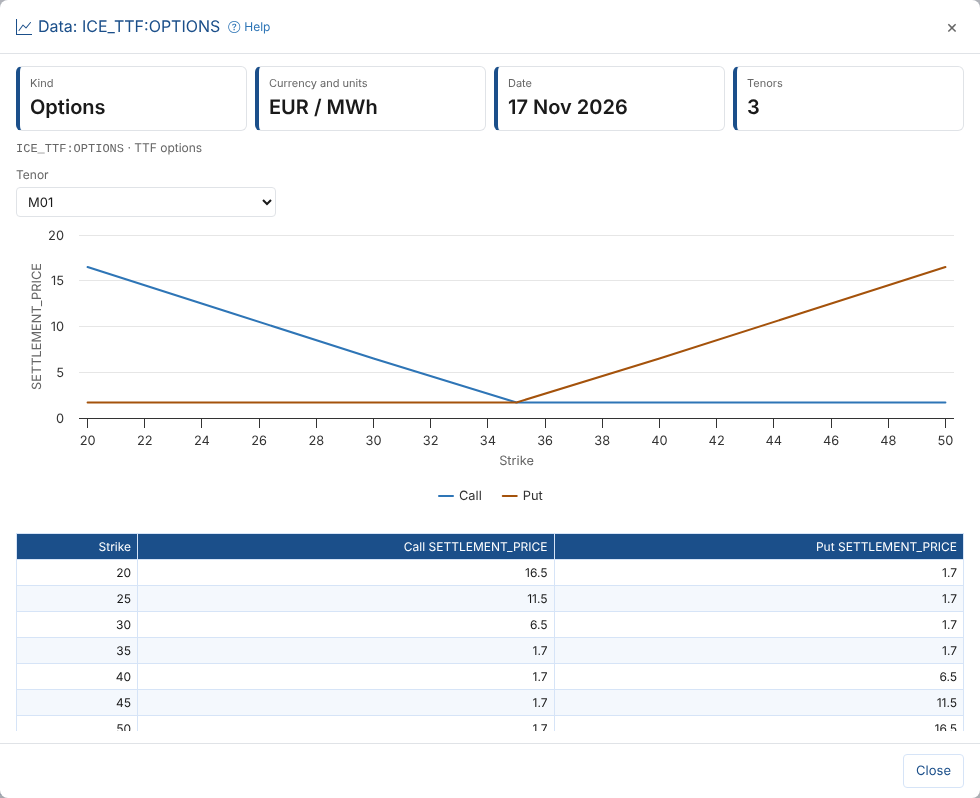
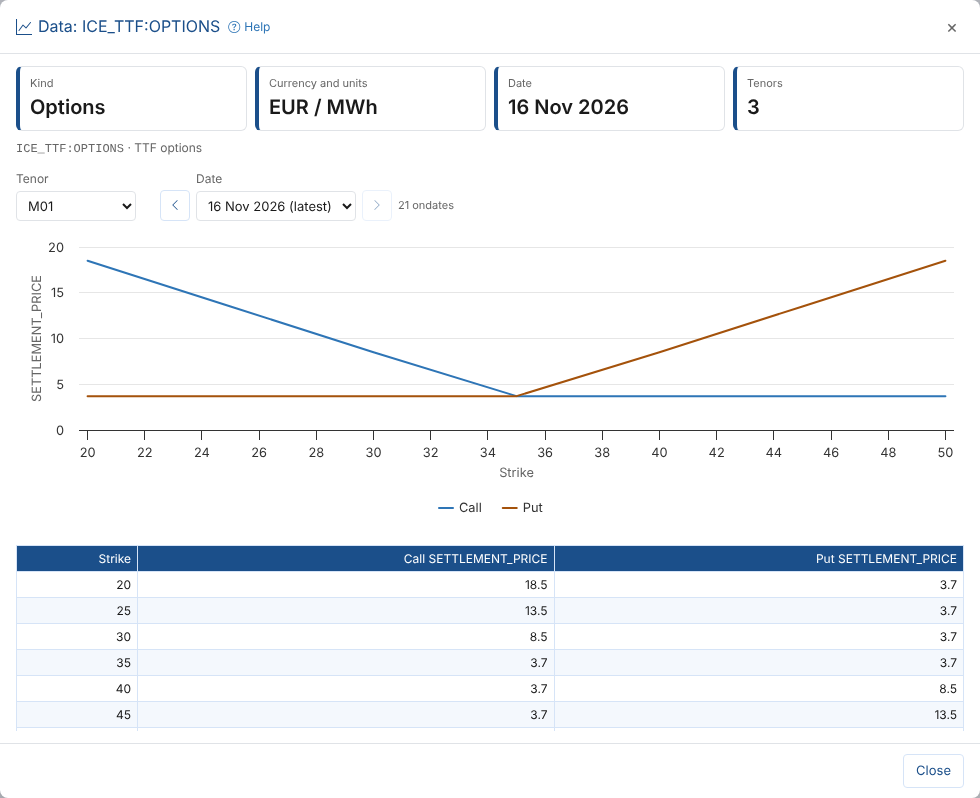
Documentation support for smart data, data explorer and projects

diff --git a/docs/extensions/project-tracker/10-reference.md b/docs/extensions/project-tracker/10-reference.md
@@ -76,7 +76,7 @@ An activity log entry has `id`, `at` (date and time), `by` (email, empty for the
 | `items` | `[{id, type, ref, label, days, points, added, addedBy, planned, plannedBy, note}]`. An item with an empty `ref` is prepared: its `type` and `label` (and `note`, `planned`, `plannedBy`) are set and the evidence is still to provide; providing it sets `ref`, `added` and `addedBy`. `type` is `feed` (`ref` a dataset feed `PROVIDER.FEED`, `days` 1 to 31), `data` (`ref` a curve, timeseries or options id, `points` 10 to 1000), `integration` (`ref` an integration system id such as `INTEGRATION.MOLECULE`, `days` 1 to 31) or `doc` (`ref` a project document name) |
 | `signOff` | null, or `{status, by, at, comment, items}`: `status` is `signed` or `rejected`, and `items` lists what was signed off as `type\|ref\|days` (or `\|points`) |
 
-The evidence is read with the normal services: `dataset/v1/info` and `dataset/v1/delivery` for a feed; `data/v1/{source}/ID?_raw=true`, then `?_range=last(n)` for a timeseries or `ID:-ONDATE?_ondate=today` for a curve or options; the integration system's object, the `group/v1` groups with `integration.systemId`, and the stored `report/v1/private/INTEGRATION_...` reports of each day. Charts use the platform's Highcharts partial `#odsl-highcharts`.
+The evidence is read with the normal services: `dataset/v1/info` and `dataset/v1/delivery` for a feed; `data/v1/{source}/ID?_raw=true`, then `?_range=last(n)` for a timeseries, or for a curve or options its ondates with `?_range=last(90)` and the curve with `ID:ONDATE` (the ondate chosen) or `ID:-ONDATE?_ondate=today` (the latest); the integration system's object, the `group/v1` groups with `integration.systemId`, and the stored `report/v1/private/INTEGRATION_...` reports of each day. For data with an id `RECORD:ITEM` the item's own documentation is read too: `documentation/v1/private/object:RECORD:ITEM`, as Smart Data's Documentation tab writes it. Charts use the platform's Highcharts partial `#odsl-highcharts`.
 
 A task is at **Evidence provided** only when it has evidence and none of it is still to provide; until then it is at **No evidence** (the screen shows how much is provided). The task screen only offers **Sign off** and **Reject** to the person in `signOffBy`, and **Sign off** only when nothing is still to provide. For a project of another tenant, the `projectshare` service also enforces it: a sign-off can only be added or changed by the person in `signOffBy` (not changed in the same save) under their own name, a sign-off is refused while any item is still to provide, and a sign-off is cleared when the evidence items, the person or `required` change. `evidence` refuses an item that is still to provide.
 
@@ -116,7 +116,7 @@ An added project is a record in your own `project` collection with `kind: link`,
 | `delete` | POST | `tenant`, `environment`, `coll` (`task` or `doc`); `{_id, project}` as the body | Deletes a task or document. Projects cannot be deleted |
 | `subscribe`, `unsubscribe` | POST | `tenant`, `environment` (left out for your own project); `{_id: SignalR connection id, project}` as the body | Joins or leaves the project's realtime group. Answers `{group, live}` |
 | `notify` | POST | `tenant`, `environment` (left out for your own project); `{_id: project code, kind, id, action, connection}` as the body | Tells the people with the project open what was just saved: `kind` is `project`, `task` or `doc`, `action` is `save` or `delete` |
-| `evidence` | GET | `tenant`, `environment`, `project`, `task`, `item` | Reads one evidence item of the task in the client's tenant: `{type, ref, ...}` with the datasets and deliveries, the data, the integration reports or the document. Only items attached to the task can be read |
+| `evidence` | GET | `tenant`, `environment`, `project`, `task`, `item`, `ondate` (optional, `yyyy-MM-dd`, for a curve or options) | Reads one evidence item of the task in the client's tenant: `{type, ref, ...}` with the datasets and deliveries, the data (for a curve or options also `ondates`, the latest 90 newest first, and the `ondate` asked for; for an id `RECORD:ITEM` also `doc`, the item's documentation), the integration reports or the document. Only items attached to the task can be read |
 | `evidenceOptions` | GET | `tenant`, `environment`, `project`, `kind` (`feeds`, `systems` or `data`), `q` | What can be attached as evidence in the client's tenant: its dataset feeds, its integration systems, or up to 25 curves, timeseries and options whose id contains `q` |
 
 For example `GET projectshare/v1?_function=list&tenant=<tid>&environment=production&coll=task&project=NORTHGATE`.
@@ -132,7 +132,7 @@ A Home page task or a link can open the Projects screen with these properties:
 | Property | Values |
 |-|-|
 | `PROJECT` | A project code |
-| `TAB` | `overview`, `tasks`, `gantt`, `docs`, `people` or `settings` |
+| `TAB` | `overview`, `tasks`, `gantt`, `docs`, `evidence`, `people`, `insights` or `settings` |
 | `TASK` | A task id: opens its project and the task panel |
 | `SHOW` | `mine`, `late`, `soon` or `blocked`: the Tasks tab with that filter |
 | `ACTION` | `newproject`, or `newtask` (with `PROJECT`) |
@@ -147,7 +147,7 @@ A Home page task or a link can open the Projects screen with these properties:
 | Menu item | **Manage > Projects** (view script `odsl.project_tracker.manage`) |
 | Feature policy | `extension.odsl.project_tracker` |
 | Security policies | `Projects` (object/project), `ProjectTasks` (object/project_task), `ProjectDocuments` (documentation, private) |
-| Insight | `odsl.project_tracker.status`, Project Status |
+| Insight | `odsl.project_tracker.status`, Project Status, category `odsl.project_tracker`. The screen's **Insights** tab lists every insight report of that category (`reportconfig/v1/all`) and runs the chosen one as a page (`report/v1/{source}/{id}`, Accept `text/html`) with the properties `ID` and `PROJECT` (the chosen project's code, or the link id of a project of another tenant). The view sets `insights = false`, so the portal does not add its own Insights tab |
 | Home page tasks | `odsl.project_tracker.late`, `odsl.project_tracker.mine`, `odsl.project_tracker.new` |
 | Scripts | `odsl.project_tracker.common`, `.gantt`, `.manage`, `.insight.status`, `.reminders`, `.email` |
 

diff --git a/docs/extensions/data-explorer/08-reference.md b/docs/extensions/data-explorer/08-reference.md
@@ -39,6 +39,7 @@ A Home page task or a link can open the Data Explorer ready for a job with view 
 | Groups you make | The group service, type `favourite`, the category you chose |
 | Dynamic groups | `dynamicOptions`: `service` (`data` or `object`), `source`, `filter` (on the data items, as JSON text) and `objectFilter` (on their master data, as JSON text) |
 | Automations | The automation service, owned by you |
+| Documents | The documentation service (private), scope `object`: a record's documents have the record's id as the entity and a name made from the title (`object:NGE.GAS.TTF:how-the-ttf-hub-is-priced`); a data item's document has its record as the entity and its own key as the name (`object:NGE.GAS.TTF:FORWARD`), as the Smart Data extension keeps it. Saving one adds a link to it (`_links`) on the record. Notes on public and common items are kept in private with the item's own ids (`object:#ICE.NDEX.NLB:SETTLE`, a record's `object:#ICE.NDEX.NLB:notes`) |
 
 ---
 
@@ -60,13 +61,14 @@ A Home page task or a link can open the Data Explorer ready for a job with view 
 | Other extensions | `GET extension/v1/private` (their views and `configuration.data_explorer`), `GET extension/v1/private/EXT/view/VIEW?_properties=...` |
 | A metric timeseries | Its metrics `GET metric/v1?_function=listMetrics&provider=PROVIDER`; saving `POST object/v1/private` with `{_id: RECORD, KEY: {_id: KEY, _type: "VarMetricTimeSeries", provider, metric, ...}}`; recent values `GET data/v1/{source}/ID?_range=last(48)` |
 | GEO Data | `GET object/v1/{source}` with `_filter` `{"geoLocation.coordinates": {"$exists": true}}`, near a point the query parameter `geoLocation=within(sphere([LNG,LAT],RADIANS))` (the radius in km divided by 6378.1); types `_distinct=_type`; placing a record `POST object/v1/private` with `{_id, _type, geoLocation: {type: "Point", coordinates: [LNG, LAT]}}` |
+| Documentation | A record's documents are its `_links` entries with `_service` `documentation`; reading one `GET documentation/v1/{source}/SCOPE:ENTITY:NAME` (a Link or JSON document with `Accept: text/html`); saving `POST documentation/v1/private` with `{_type: "VarDocumentation", documentationType: "Default", scope, entity, name, language: "en", content, tags: ["title:..."]}`; deleting `DELETE documentation/v1/private/OBJECTID` |
 | Insights | `GET reportconfig/v1/all?_limit=-1` (categories Item Insights and Data Insights); running one `GET report/v1/{source}/REPORT` with `Accept: text/html` and `_properties={"ID", "SOURCE", "SERVICE": "data"}` |
 
 ---
 
 ## Permissions
 
-The Data Explorer shows only what the platform lets you read. Groups you can see are your own and the shared ones. Adding to a group changes it for everyone who uses it. Tabs and actions from other extensions follow those extensions' own rules (for example editing needs the update right).
+The Data Explorer shows only what the platform lets you read. Groups you can see are your own and the shared ones. Adding to a group changes it for everyone who uses it. Tabs and actions from other extensions follow those extensions' own rules (for example editing needs the update right). Changing the documentation of a private item needs the update right on it; notes on public and common items are your organisation's own.
 
 ---
 
@@ -92,6 +94,8 @@ The Data Explorer shows only what the platform lets you read. Groups you can see
 | **There is no matrix ...** | The matrix has no ondate on or before the one asked for, or none before it to compare with |
 | **The browser did not allow copying here** | The page is not allowed to use the clipboard: use **CSV** instead |
 | The **Metric** tab says it could not read the metrics of a provider | The platform could not list them (for an Azure provider, Azure did not answer): the metric that is saved is still shown |
+| **The documentation could not be read** | The platform's documentation service did not answer: open the tab again. If it keeps happening, check that your tenant has the documentation service (it is not part of the community plan) |
+| A deleted document is still linked from the record in the portal | Deleting a document does not remove the link the platform added to the record when it was saved. The Data Explorer leaves such links out |
 | A report on the **Insights** tab says it could not be run | The report's template failed on the platform: open it from the portal's Data screen to see its own message |
 | GEO Data says the map could not be loaded | The map library comes from unpkg.com: the browser must be allowed to reach it. The records are still listed |
 | GEO Data shows country outlines with a note about Google | The map uses the Google Maps the portal page has loaded. Reload the portal page; if the note stays, Google Maps did not load in the portal (check the browser console there) |

diff --git a/docs/extensions/data-explorer/03-viewing-data.md b/docs/extensions/data-explorer/03-viewing-data.md
@@ -18,7 +18,7 @@ Select a result to open it in place. The header shows its name, kind, id, source
 | **Add an automation** | Something the platform does when it changes (see [Automations](/docs/extensions/data-explorer/actions#automations)) |
 | **More** | What other extensions do with it, **Open its master data** and **Copy the id** |
 
-The tabs depend on what it is: the Data Explorer's own tabs come first, then the tabs other extensions add (their extension is named beside the tab), then **Insights** and **Details**. See [What other extensions add](/docs/extensions/data-explorer/extensions).
+The tabs depend on what it is: the Data Explorer's own tabs come first, then the tabs other extensions add (their extension is named beside the tab), then **Documentation**, **Insights** and **Details**. See [What other extensions add](/docs/extensions/data-explorer/extensions).
 
 ---
 
@@ -190,6 +190,53 @@ Which tab changes what:
 | Composed curve, composed timeseries | **Composer** |
 | Curve series, matrix | **Definition** |
 
+
+---
+
+## Documentation
+
+**Documentation** is where you write down what an item is, where it comes from, how it is used and who to ask about it. Documents are written in markdown and kept in the platform's documentation service, so the portal shows them too.
+
+![The documentation of the TTF forward curve](/img/extensions/data-explorer/documentation.png)
+
+### Writing a document
+
+1. Open the item and select **Documentation**.
+2. Select **Edit**. A new document starts with what is already known about the item (its id, kind, currency, units and calendar) and headings to fill in: **What it is**, **Where it comes from**, **How it is used**, **Checks and known issues** and **Contacts**.
+3. Write in the left pane; the right pane shows the result as you type. Use **Write** or **Preview** for one pane only.
+4. Select **Save**, or press **Ctrl+S**.
+
+![Writing a document, with the preview beside it](/img/extensions/data-explorer/documentation-edit.png)
+
+The toolbar adds bold and italic text, headings, bulleted, numbered and task lists, quotes, links, code, tables and dividers. **Enter** continues a list, and **Tab** and **Shift+Tab** indent a list item. **Download** saves the document as a markdown file, and **Delete** deletes it.
+
+If you leave the tab, open another item or go back to the results with changes that are not saved, you are asked whether to discard them.
+
+### A data item's document
+
+A curve, timeseries, matrix or event list has one document of its own. It is also listed on the **Documentation** tab of its master data record, marked **About its data**, so the record shows everything written about it and its data. A curve's tenor has no Documentation tab: document the curve.
+
+A smart curve or timeseries shows the same document on the **Documentation** tab of the Smart Data extension.
+
+### A master data record's documents
+
+A record can have several documents. They are listed on the left; select one to read or change it. Select **New document**, give it a title and choose what to start from: **About this record** (what is known about the record, and the same headings as a data item's document) or one of the starters (**Notes**, **Meeting notes**, **Requirements**, **Design**, **Runbook** and others). The dialog shows the name the document is saved under, made from the title.
+
+![A record's documents: one about its data, and one of its own](/img/extensions/data-explorer/documentation-record.png)
+
+![A new document for a record](/img/extensions/data-explorer/documentation-new.png)
+
+### Public and common data
+
+Public and common items show their **Published documentation**, if there is any, which you can read and download but not change. Linked documents (a page on the provider's website, for example) are shown as the platform renders them.
+
+Below it, **Your notes** is a document of your own about the item, kept in your organisation's documentation: only your organisation sees it.
+
+![The published documentation of a public curve, with your notes below it](/img/extensions/data-explorer/documentation-public.png)
+
+### Who can change documents
+
+You can write and change the documents of private items you are allowed to update; otherwise you can read them but not change them. Anyone can write their own notes on public and common items.
 
 ---
 

diff --git a/docs/extensions/smart-data/05-the-workspace.md b/docs/extensions/smart-data/05-the-workspace.md
@@ -42,6 +42,7 @@ Under the name you see the kind, the id once it is saved, and **Unsaved changes*
 | **Script** | When it uses a script | The script in the Script Manager's editor (see [Scripts](/docs/extensions/smart-data/scripts)) |
 | **Compare versions** | Once saved | Its versions side by side (see [Versions and the audit trail](/docs/extensions/smart-data/history)) |
 | **Audit trail** | Once saved | Who changed it and its script, and what |
+| **Documentation** | Once saved | Its documentation: what it is for, how it is calculated, who uses it (see [Documentation](#documentation)) |
 
 ---
 
@@ -151,6 +152,35 @@ The status shows the platform's message, with a hint, and **Ask Fusion AI to fix
 
 :::note
 Each save of a smart curve makes the platform build it for new ondates with the new definition. Stored builds of past ondates are not changed: build them again if they should use the new definition (see [Building smart curves](/docs/extensions/smart-data/building)).
+:::
+
+---
+
+## Documentation
+
+The **Documentation** tab holds a document about the smart curve or timeseries, written in markdown: what it is for, how it is calculated, where its inputs come from, who uses it and who to ask. Everyone who can open it can read it. The tab's icon shows lines when it has a document.
+
+![The Documentation tab of the clean spark spread: what it is for, the expression and its inputs, checks and contacts](/img/extensions/smart-data/docs-tab.png)
+
+To write it, select **Edit**. The first time, the document starts from a template filled in from the definition: the name and description, the expression, a table with `BASE` and each input and what it is, and headings for who uses it, checks and contacts.
+
+![Writing the documentation: the template on the left and the preview on the right](/img/extensions/smart-data/docs-new.png)
+
+| Control | What it does |
+|-|-|
+| Toolbar | Bold, italic, headings, lists, task lists, quotes, links, code, a table and a divider |
+| **Write**, **Split** and **Preview** | The text only, the text with a live preview beside it (the default), or the preview only |
+| **Save** (or Ctrl+S) | Saves the document. The tab shows a star while there are unsaved changes, and you are asked before leaving with them |
+| **Cancel** | Stops editing; you are asked first when there are changes |
+| Download | Downloads the document as a markdown (`.md`) file |
+| Delete | Deletes the document |
+
+Enter continues a list, and Tab and Shift+Tab indent a list item.
+
+The document is kept in the platform's documentation service, separately from the definition: saving it does not make a new version of the smart curve, and changing the definition does not change the document. Update the document when you change what the smart curve does. It is linked from the master data record the smart curve is stored on, so it is found from the record too (see [How documentation is stored](/docs/extensions/smart-data/reference#how-documentation-is-stored)).
+
+:::note
+**Save as...** and **Duplicate** do not copy the documentation. Deleting a smart curve or timeseries completely deletes its documentation too; a roll back keeps it.
 :::
 
 ---

diff --git a/docs/extensions/project-tracker/03a-evidence.md b/docs/extensions/project-tracker/03a-evidence.md
@@ -41,7 +41,7 @@ Select **Add evidence**, choose what kind of evidence it is, then what it is. Yo
 | Evidence | What you choose | What it shows |
 |-|-|-|
 | **Data loader** | A dataset feed (provider and feed, such as `ICE.ENDEX`) and the days of history, 7 by default (1 to 31) | Every monitored dataset of the feed and its loading status for each of those days |
-| **Data** | A curve, timeseries or options id: type part of it to search, or type the whole id. For a timeseries, the number of values to show (90 by default) | A chart of the data: the latest values of a timeseries, today's curve by tenor, or today's option chain by strike |
+| **Data** | A curve, timeseries or options id: type part of it to search, or type the whole id. For a timeseries, the number of values to show (90 by default) | A chart of the data: the latest values of a timeseries, or a curve by tenor or an option chain by strike, for the ondate you choose (the latest by default) |
 | **Integration** | An integration system and the days of history, 7 by default | What the system was sent each day, from its daily integration reports |
 | **Document** | A project document, or **New evidence document** to write one from the **Evidence** template | The document |
 
@@ -94,8 +94,18 @@ The datasets of the feed, one row each, and a column for each day, newest first.
 | Kind | Shows |
 |-|-|
 | Timeseries | A line chart of the latest values, the latest value and its date, and the last 10 values |
-| Curve | Today's curve as a chart by tenor, and a table of the tenors with their start and end |
-| Options | Today's option chain: choose the tenor to see the call and put values by strike, as a chart and a table |
+| Curve | The latest curve (on or before today) as a chart by tenor, and a table of the tenors with their start and end |
+| Options | The latest option chain: choose the tenor to see the call and put values by strike, as a chart and a table |
+
+For a curve or options, **Curve date** (or **Date**) lists the ondates it has, newest first (the latest 90). Choose one, or use the arrows for the ondate before or after, to see the curve or option chain of that day. For options, the tenor you chose stays chosen. **Refresh** on the Evidence tab reads the chosen ondate again.
+
+![Choosing the ondate of a curve](/img/extensions/project-tracker/evidence-curve-ondates.png)
+
+#### The data's own documentation
+
+Smart curves and timeseries can have their own documentation, written in Smart Data on the item's **Documentation** tab: what the data is for, its data sources, its script and the design choices behind it. When the data has documentation (and for every smart curve or timeseries), the evidence has two tabs: **Data** shows the chart, and **Documentation** shows the documentation, so whoever signs the task off can check the logic as well as the numbers. A smart curve or timeseries with no documentation yet shows **Documentation (none)**.
+
+![The documentation of a smart curve, shown with its evidence](/img/extensions/project-tracker/evidence-data-documentation.png)
 
 ![A timeseries as evidence](/img/extensions/project-tracker/evidence-timeseries.png)
 

diff --git a/docs/extensions/smart-data/10-reference.md b/docs/extensions/smart-data/10-reference.md
@@ -82,6 +82,27 @@ The same, with type `VarSmartTimeSeries`, `baseTimeSeries` instead of `baseCurve
 
 ---
 
+## How documentation is stored
+
+The document on the **Documentation** tab is a record of type `VarDocumentation` (markdown, language `en`) in the documentation service, with the scope `object`, the entity the record id and the name the id on the record. The clean spark spread's document has the key `object:NGE_SPREADS:CLEAN_SPARK_DE`:
+
+```json
+{
+  "_type": "VarDocumentation",
+  "documentationType": "Default",
+  "scope": "object",
+  "entity": "NGE_SPREADS",
+  "name": "CLEAN_SPARK_DE",
+  "language": "en",
+  "content": "# German clean spark spread\n\nThe margin of a gas plant in Germany ...",
+  "tags": ["title:German clean spark spread"]
+}
+```
+
+Because the scope is a service, the documentation service adds a link to the record when the document is saved: `_links.CLEAN_SPARK_DE` on `NGE_SPREADS`, a reference to `documentation` `object:NGE_SPREADS:CLEAN_SPARK_DE`. In a script, read it with `${documentation:"private"/"object:NGE_SPREADS:CLEAN_SPARK_DE"}`.
+
+---
+
 ## Smart data areas
 
 A smart data area is a private master data record of type `smart_data_area`, created by the extension when you choose **A new smart data area** while saving.
@@ -112,6 +133,9 @@ A smart data area is a private master data record of type `smart_data_area`, cre
 | Roll back | `DELETE data/v1/private/RECORD:ID` (deletes the current version) |
 | Delete completely | `DELETE data/v1/private/RECORD:ID/*` |
 | Audit trail | `GET audit/v1/private` with `_filter` `{"service": "data", "key": "RECORD:ID"}` |
+| Read its documentation | `GET documentation/v1/private/object:RECORD:ID` (no `_id` in the answer: there is none) |
+| Save its documentation | `POST documentation/v1/private` with the `VarDocumentation` record |
+| Delete its documentation | `DELETE documentation/v1/private/{_id}` (by the record's `_id`, read first) |
 
 The preview and the builds are made by the platform itself, so what you see in the preview is what the saved smart data gives.
 
@@ -125,6 +149,7 @@ The preview and the builds are made by the platform itself, so what you see in t
 | Saving and deleting | Permission to update the master data record it is stored on, and its data |
 | Reading the base and inputs | Read access to that data, private or public |
 | The Script tab | The same rights as the Script Manager: **update** on the script to save it, **run** to run or debug it |
+| The Documentation tab | Read and update on the documentation service to write the document; read to see it |
 
 ---
 

diff --git a/docs/extensions/data-explorer/01-overview.md b/docs/extensions/data-explorer/01-overview.md
@@ -37,6 +37,7 @@ Throughout these pages we follow Northgate Energy, a fictional gas and power tra
 | Chart board | One chart of several curves and timeseries, with what changed since the previous curve |
 | GEO Data | Master data records with a location (`geoLocation`) on a map: wind and solar farms, gas storage, weather stations |
 | Tabs from other extensions | Other extensions add their own tabs and actions, such as Edit, Smart Data, Event Data and Validation |
+| Documentation | What an item is, where it comes from and who to ask, written in markdown with a live preview and kept in the platform's documentation service, with notes of your own on public data |
 | Insights | The platform's insight reports for an item (audit, usage, rights, seasonality, the history of a curve's ondates ...), run in place |
 
 ---
@@ -46,7 +47,7 @@ Throughout these pages we follow Northgate Energy, a fictional gas and power tra
 | Screen | What it is for |
 |-|-|
 | **Explore** | Find master data and data, and see the results as a table or as cards |
-| An opened item | A curve against its previous curve with what changed, tenor histories, a timeseries chart, an option chain, smiles and surface, a correlation, covariance or statistics matrix and how it changed, what a metric timeseries measures, a record with its data, insight reports, and the tabs other extensions add |
+| An opened item | A curve against its previous curve with what changed, tenor histories, a timeseries chart, an option chain, smiles and surface, a correlation, covariance or statistics matrix and how it changed, what a metric timeseries measures, a record with its data, its documentation, insight reports, and the tabs other extensions add |
 | **GEO Data** | Master data with a location on a map, what is near a point, and their data |
 | **Chart board** | Several series on one chart, with themes and saved boards |
 

diff --git a/docs/extensions/project-tracker/01-overview.md b/docs/extensions/project-tracker/01-overview.md
@@ -54,7 +54,7 @@ Throughout these pages we follow the onboarding of **Northgate Energy**, a ficti
 | **Evidence** tab | The evidence of the tasks that need a formal sign-off, provided or still to provide; select a piece of evidence to see it, and sign the task off there |
 | **People** tab | The parties and the people tasks are assigned to |
 | **Settings** tab | Project details, work streams, plan templates, reminders and the defaults for new projects |
-| **Project Status** insight | A status report: progress against the plan, late and at-risk work, milestones, schedule changes and communication |
+| **Insights** tab | The **Project Status** insight, run for the chosen project: a status report: progress against the plan, late and at-risk work, milestones, schedule changes and communication |
 | Reminders | A daily check emails people before their tasks are due and while they are late, and raises an alert for each late task |
 | Working with partners | Share a project with your implementor; OpenDataDSL and implementors add the client's projects to their own screen and work on them there |
 | Home page tasks | **Catch up on late project tasks** (with the number late), **My project tasks** and **Start an onboarding project** |

diff --git a/docs/extensions/project-tracker/09-insights.md b/docs/extensions/project-tracker/09-insights.md
@@ -10,7 +10,9 @@ tags: [extension, projects, insight, report]
 
 The **Project Status** insight is a status report for one project, or all of them: progress against the plan, work streams, parties and people, late and at-risk work, milestones and how far they moved, schedule changes, and the communication recorded on the tasks.
 
-Open it from the **Insights** of the Projects menu item.
+Open it on the **Insights** tab of **Manage > Projects**. The tab lists the insight reports that come with Projects as cards and runs the one you choose below them, for the project chosen at the top of the screen (or all projects when none is chosen). Choosing another project runs it again for that project; **Refresh** runs it again with the latest data. Inside the report you can still pick another project, a party or an as-of date.
+
+![The Insights tab running Project Status for the Northgate project](/img/extensions/project-tracker/insights-tab.png)
 
 ![The Project Status insight for the Northgate project](/img/extensions/project-tracker/insight-overview.png)
 

diff --git a/docs/extensions/smart-data/09-history.md b/docs/extensions/smart-data/09-history.md
@@ -60,7 +60,7 @@ Restoring changes what the platform builds from now on, but not the builds alrea
 | Choice | What happens |
 |-|-|
 | **Roll back** | Deletes the current version: the version before becomes the current one. The dialog shows what the roll back undoes. Stored builds are kept |
-| **Delete it completely** | Deletes every version, its build automation and (for a smart curve) all its stored builds. You are asked again, with the number of builds and their ondates |
+| **Delete it completely** | Deletes every version, its build automation, its [documentation](/docs/extensions/smart-data/workspace#documentation) and (for a smart curve) all its stored builds. You are asked again, with the number of builds and their ondates |
 
 A smart curve or timeseries with one version can only be deleted completely.
 

diff --git a/docs/public/insights/project-status-report.md b/docs/public/insights/project-status-report.md
@@ -17,7 +17,7 @@ tags: [insight, report, projects, onboarding, extension]
 - Which tasks are still waiting for evidence or a sign-off, and from whom?
 - What was agreed, and with whom?
 
-Open it from the **Insights** of **Manage > Projects**.
+Open it on the **Insights** tab of **Manage > Projects**, where it opens on the project chosen in the screen.
 
 ![The Overview tab of Project Status for the Northgate Energy onboarding](/img/extensions/project-tracker/insight-overview.png)
 
